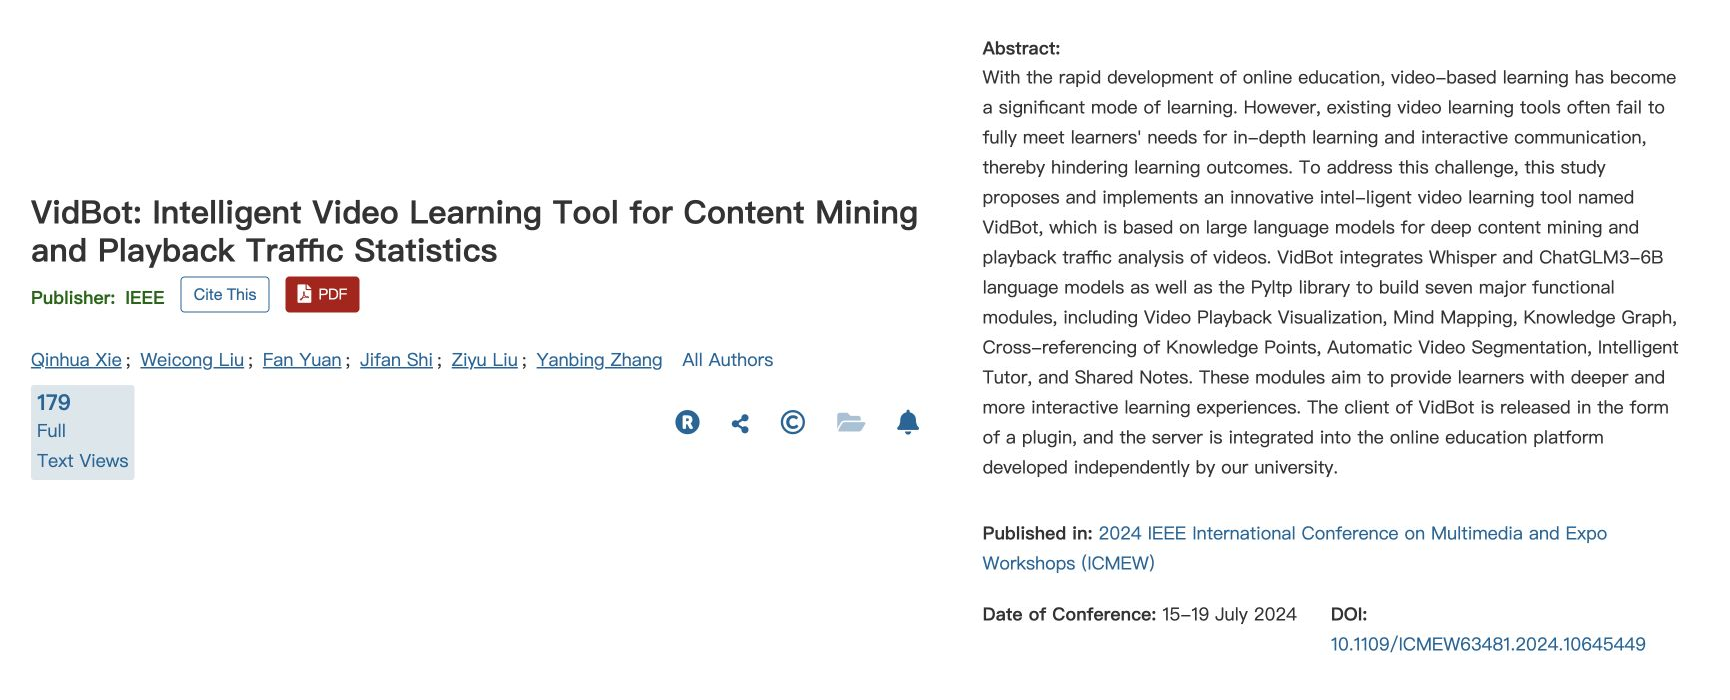
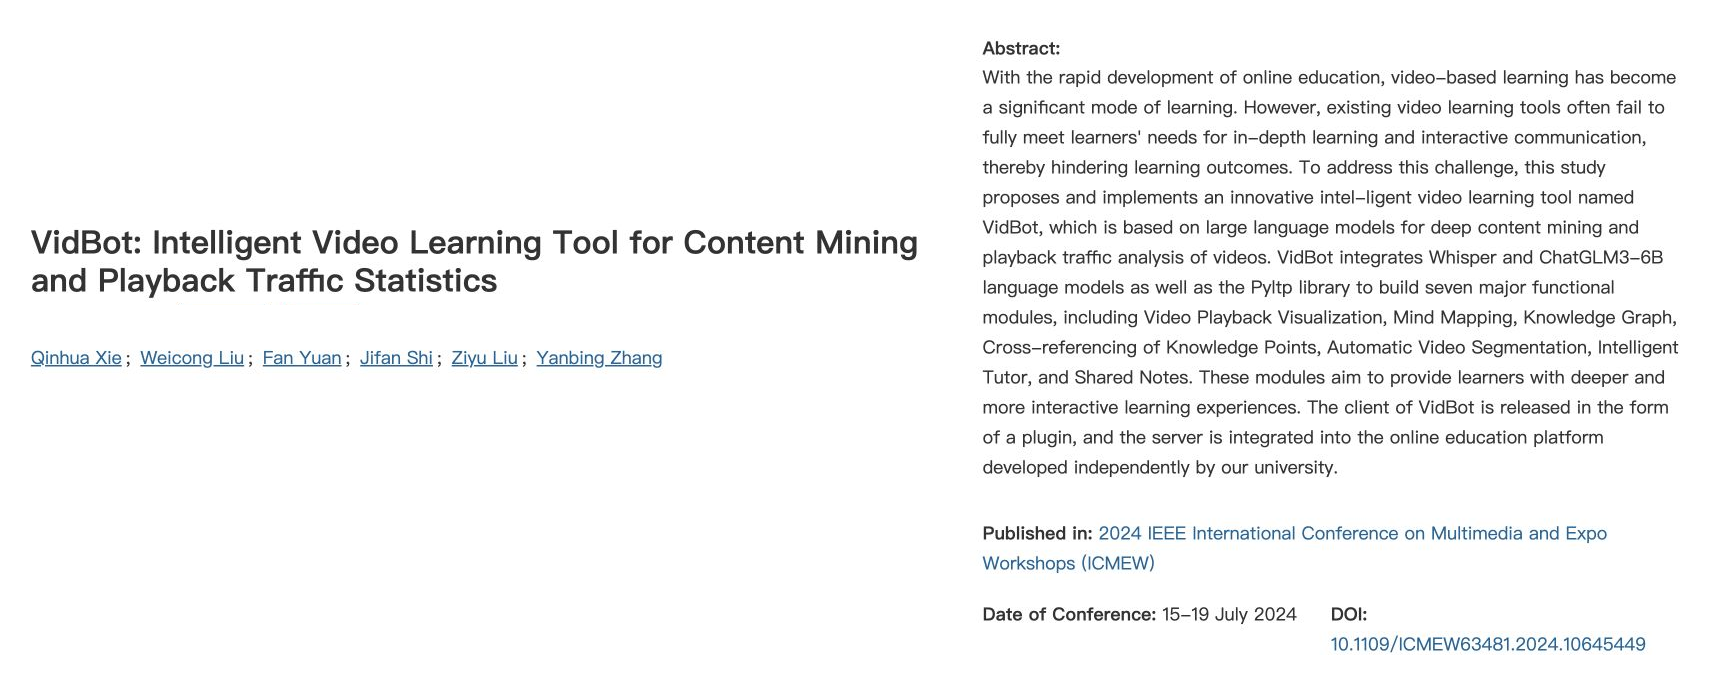
fix: refine publication image provenance

Changed region(s): [[0.0, 0.27, 0.5306, 0.45], [0.0, 0.48, 0.437, 0.69], [0.3746, 0.57, 0.5306, 0.63]]

diff --git a/images/publications/SOURCES.md b/images/publications/SOURCES.md
@@ -13,6 +13,7 @@ All assets were collected or copied on 2026-08-23.
 - File: `images/publications/gsm8k-v.png`
 - Source: [ZJU-REAL/GSM8K-V `assets/intro.png`](https://raw.githubusercontent.com/ZJU-REAL/GSM8K-V/main/assets/intro.png)
 - Repository: [ZJU-REAL/GSM8K-V](https://github.com/ZJU-REAL/GSM8K-V)
+- License: MIT License. See the [exact upstream license](https://github.com/ZJU-REAL/GSM8K-V/blob/main/LICENSE) and the bundled copy in `images/publications/GSM8K-V-LICENSE.txt`.
 - Selection: The project-owned introductory figure directly contrasts the text-only GSM8K task with GSM8K-V and includes the benchmark model comparison.
 - Processing: Downloaded at its original 1813 x 619 resolution; no visual edits were applied.
 
@@ -21,6 +22,7 @@ All assets were collected or copied on 2026-08-23.
 - File: `images/publications/vidbot.png`
 - Source record: [IEEE Xplore document 10645449](https://ieeexplore.ieee.org/document/10645449)
 - Official PDF path checked: `https://ieeexplore.ieee.org/iel8/10645349/10645352/10645449.pdf`
-- Access note: IEEE Xplore marks the PDF control as "You do not have access to this PDF," and the official figures view requires sign-in. The official PDF and first page therefore could not be obtained lawfully in this environment without purchasing access.
-- Selection: This is an official IEEE Xplore record capture, not the paper's first page. It contains only paper-specific content: the complete title, all six authors, abstract, conference venue and date, and DOI.
-- Processing: Paper-specific regions from the same IEEE record were captured at the top of the page and at a 560-pixel vertical scroll position, cropped to remove navigation, search, ads, cookie UI, access prompts, sign-in controls, and unrelated recommendations, then placed side by side on a white 1730 x 700 canvas. No text was redrawn, and no generic or AI-generated imagery was used.
+- Access note: IEEE Xplore marks the PDF control as "You do not have access to this PDF," and the official figures view requires sign-in. The official PDF and first page were not retrieved in this environment.
+- Selection: This is an official IEEE Xplore record capture, not the paper's first page. It presents the complete title, exactly six named authors, abstract, conference venue and date, and DOI.
+- Processing: Regions from the same IEEE record were captured at the top of the page and at a 560-pixel vertical scroll position, cropped and placed side by side on a white 1730 x 700 canvas. Navigation, search, ads, cookie and access prompts, sign-in controls, unrelated recommendations, generic publisher controls (`Cite This` and `PDF`), the `Full Text Views` metric, toolbar icons, and `All Authors` were excluded by cropping. No text was redrawn, and no generic or AI-generated imagery was used.
+- Copyright: Copyright © 2024 IEEE; official record capture used as a linked identifying publication thumbnail; no open license is claimed.
